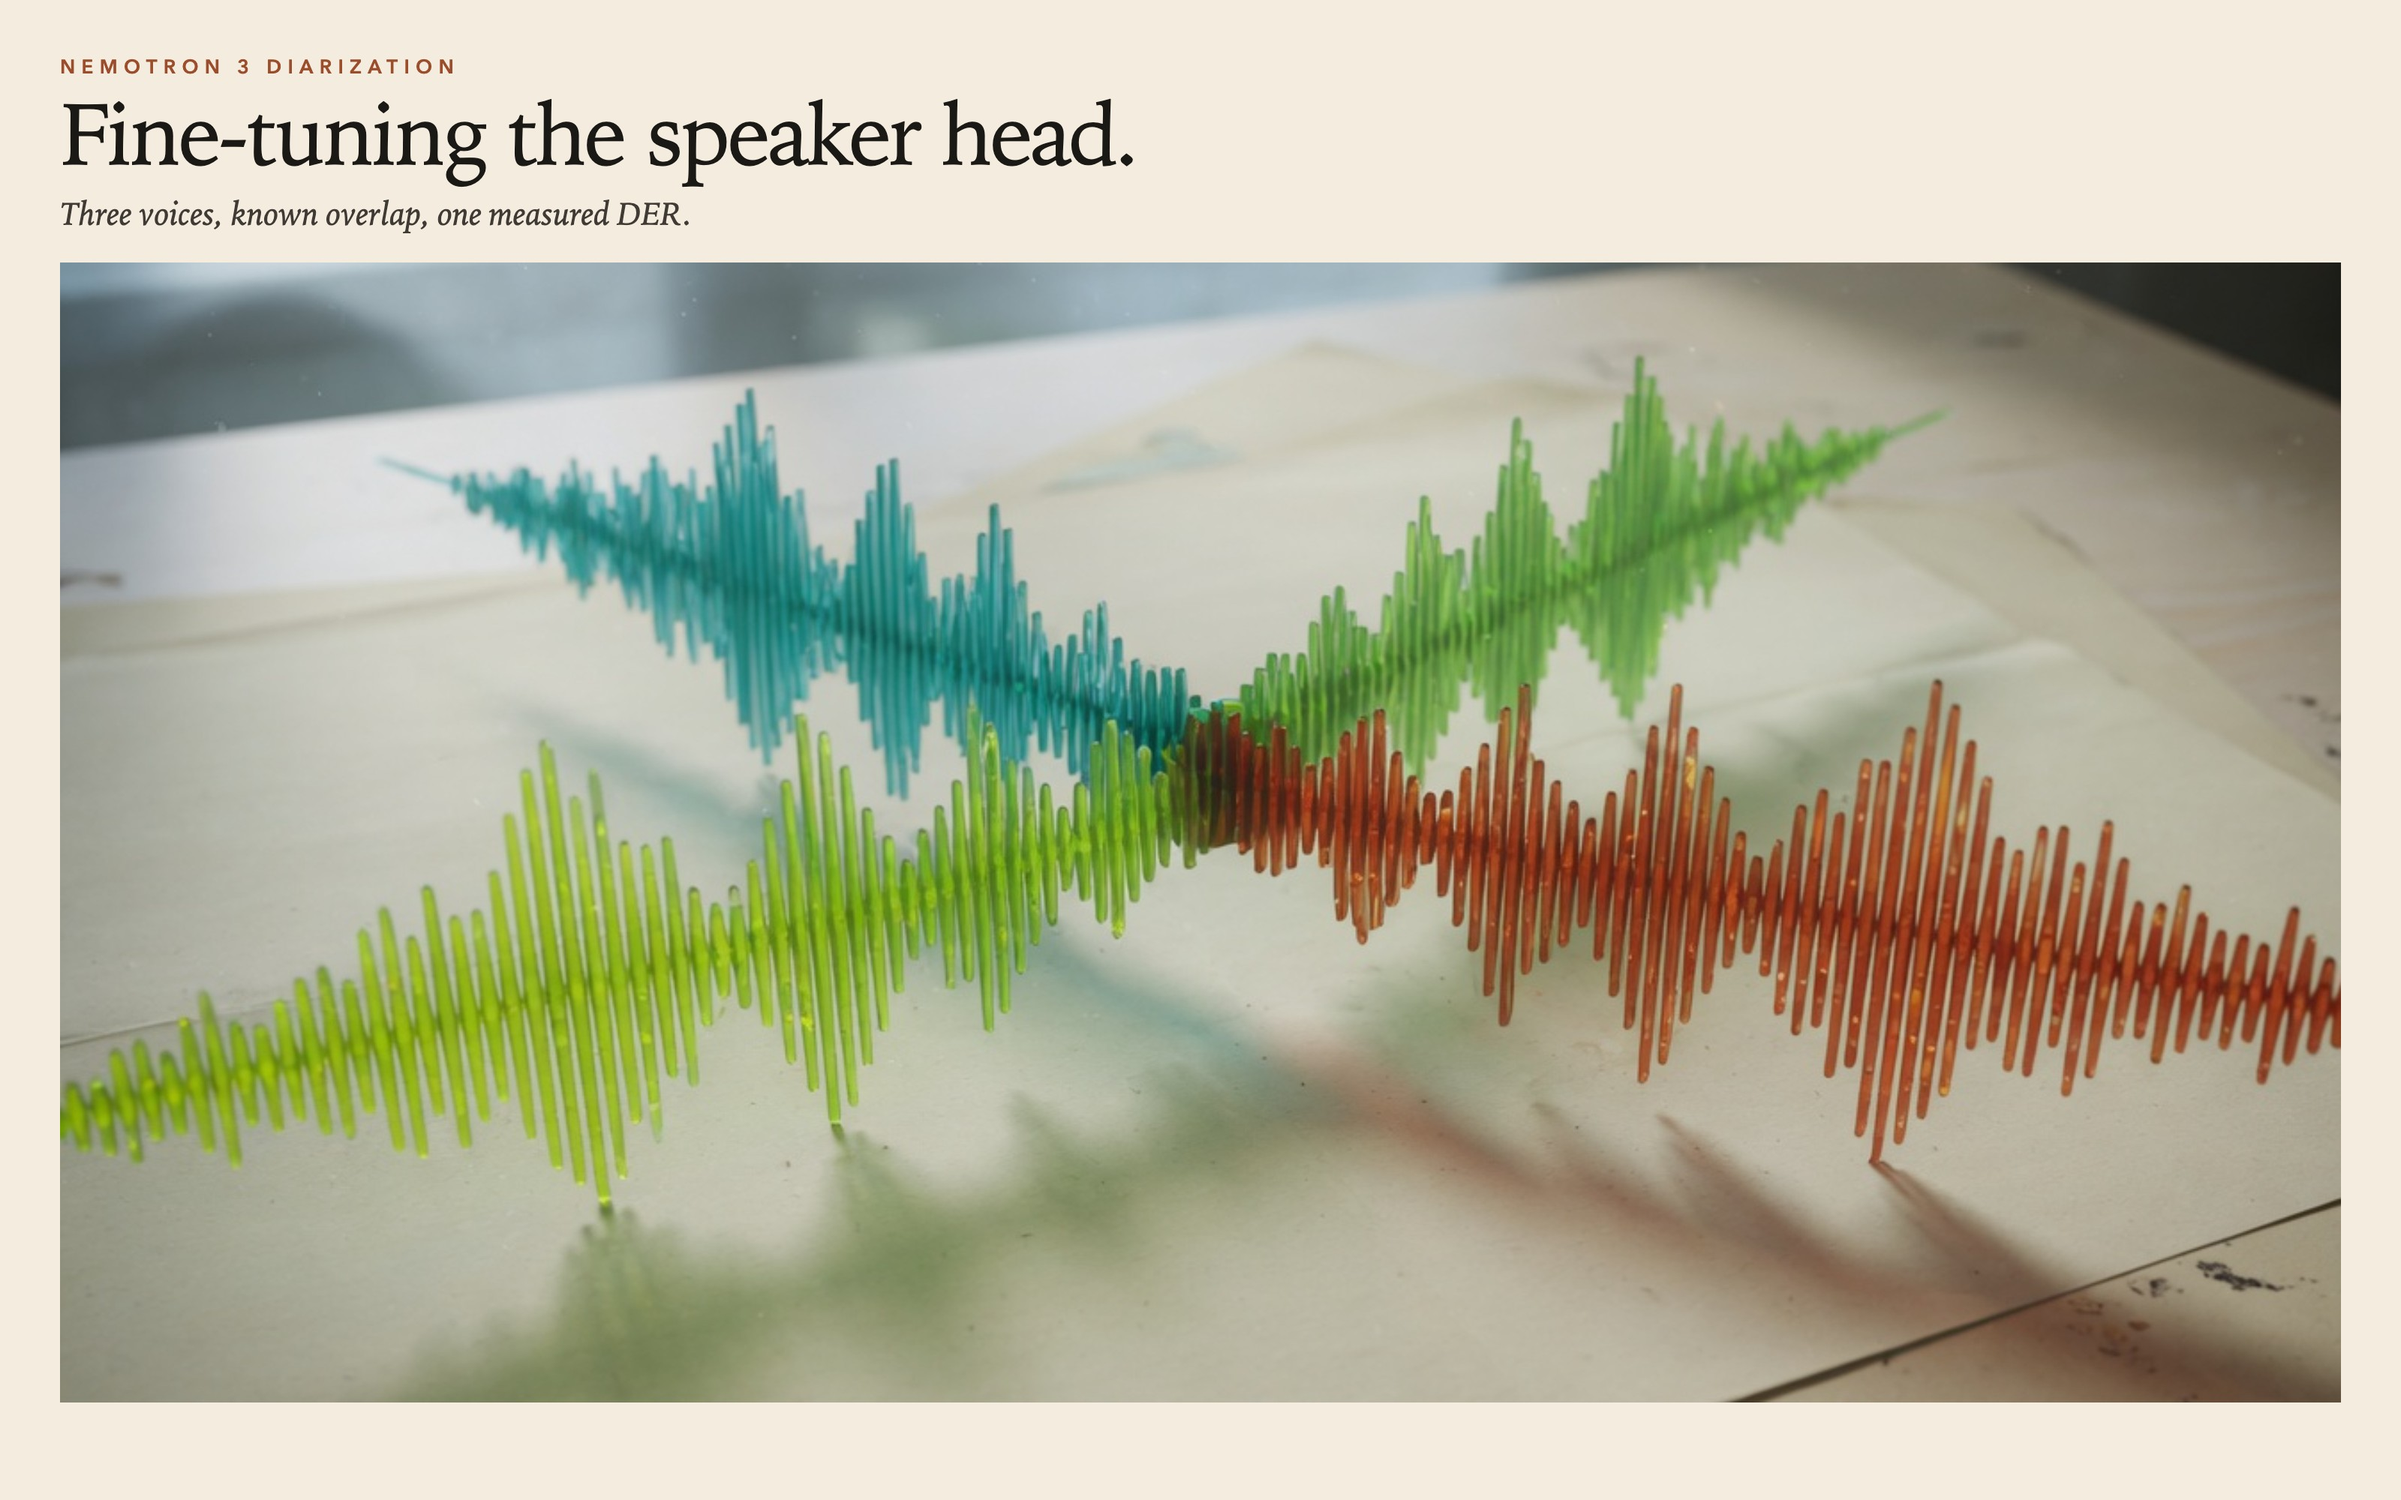
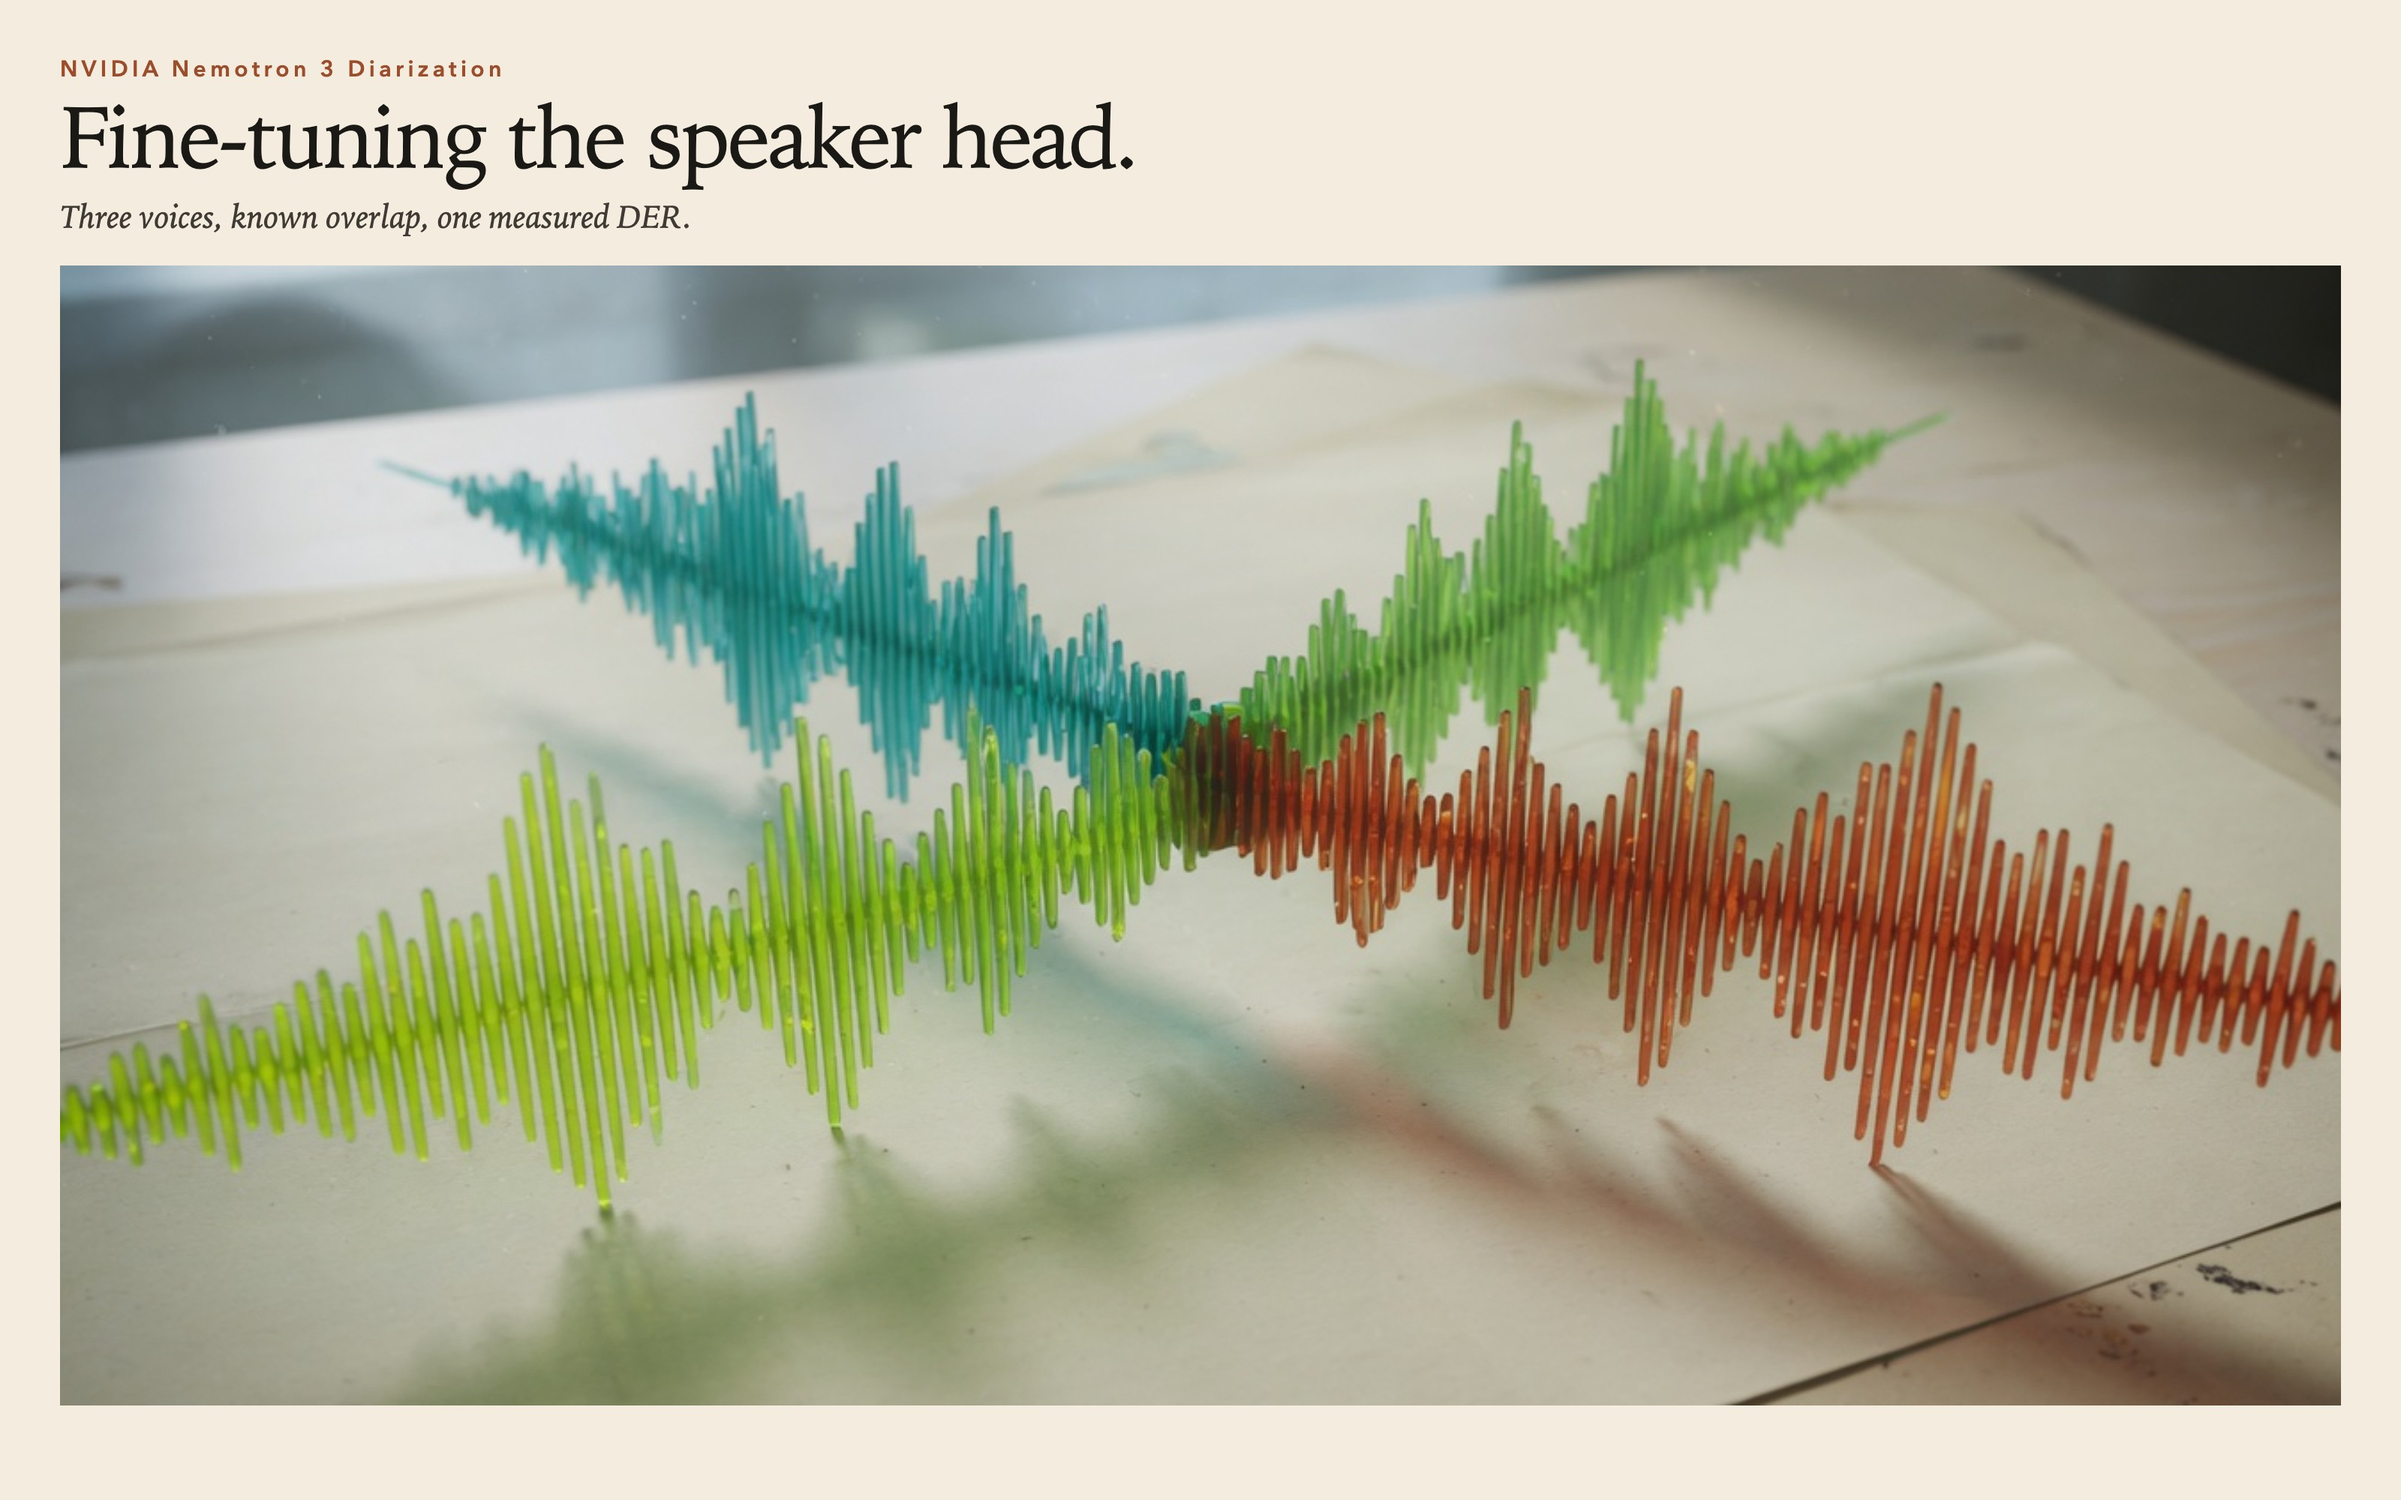
Add NVIDIA Nemotron 3 Diarization to the header.

diff --git a/assets/header.html b/assets/header.html
@@ -22,10 +22,9 @@
     .kicker {
       margin: 0;
       font-family: "Avenir Next", "Avenir", "Helvetica Neue", sans-serif;
-      font-size: 13px;
+      font-size: 15px;
       font-weight: 600;
-      letter-spacing: 0.32em;
-      text-transform: uppercase;
+      letter-spacing: 0.18em;
       color: #9c4d2b;
     }
     h1 {
@@ -54,7 +53,7 @@
 </head>
 <body>
   <div class="page">
-    <div class="kicker">Nemotron 3 Diarization</div>
+    <div class="kicker">NVIDIA Nemotron 3 Diarization</div>
     <h1>Fine-tuning the speaker head.</h1>
     <p class="deck">Three voices, known overlap, one measured DER.</p>
     <img src="scene.jpg" alt="Three crossing voice waveforms in lime, teal, and rust">
